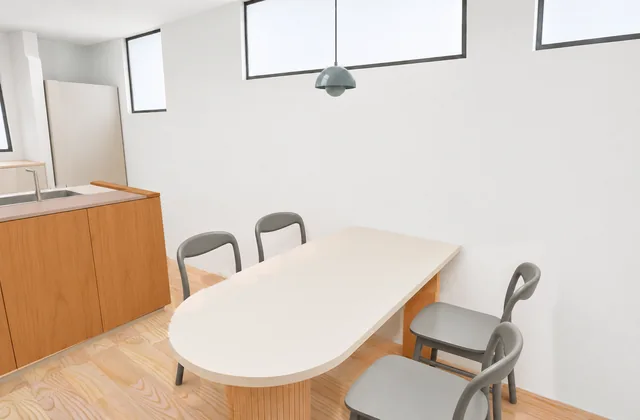
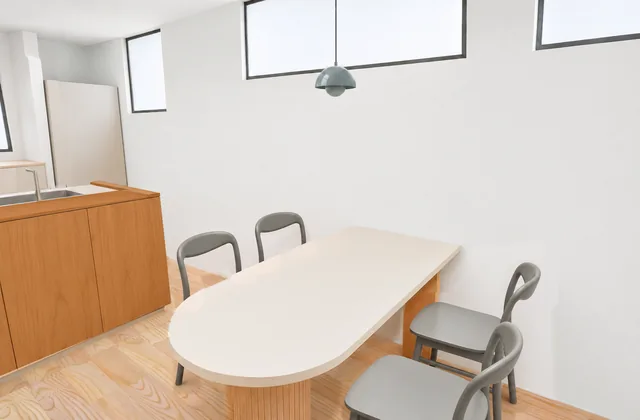
グレー案の前収納天板の写真を更新

Changed region(s): [[0.0, 0.4333, 0.2188, 0.5262]]

diff --git a/yama-gray.html b/yama-gray.html
@@ -16,8 +16,8 @@
   </header>
   <main>
     <div class="cards">
-      <a id="dining-table" class="card" href="images/yama-gray/dining-table.webp?v=b31abfb" data-photo="テーブルとペンダント、yama グレー（板座）">
-          <img src="images/yama-gray/dining-table-small.webp?v=b31abfb" srcset="images/yama-gray/dining-table-small.webp?v=b31abfb 640w, images/yama-gray/dining-table.webp?v=b31abfb 1440w" sizes="(max-width: 560px) calc(100vw - 32px), (max-width: 850px) 47vw, 344px" width="640" height="420" alt="テーブルとペンダント、yama グレー（板座）" loading="lazy" decoding="async">
+      <a id="dining-table" class="card" href="images/yama-gray/dining-table.webp?v=26946bd" data-photo="テーブルとペンダント、yama グレー（板座）">
+          <img src="images/yama-gray/dining-table-small.webp?v=26946bd" srcset="images/yama-gray/dining-table-small.webp?v=26946bd 640w, images/yama-gray/dining-table.webp?v=26946bd 1440w" sizes="(max-width: 560px) calc(100vw - 32px), (max-width: 850px) 47vw, 344px" width="640" height="420" alt="テーブルとペンダント、yama グレー（板座）" loading="lazy" decoding="async">
           <span>テーブルとペンダント</span>
         </a>
       <a id="living-to-kitchen" class="card" href="images/yama-gray/living.webp?v=b31abfb" data-photo="リビングからキッチン、yama グレー（板座）">
